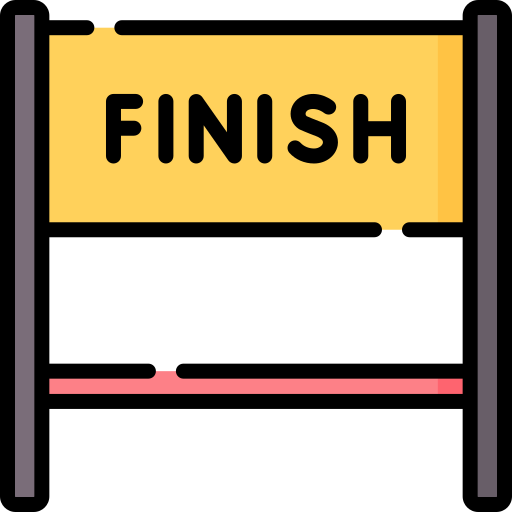
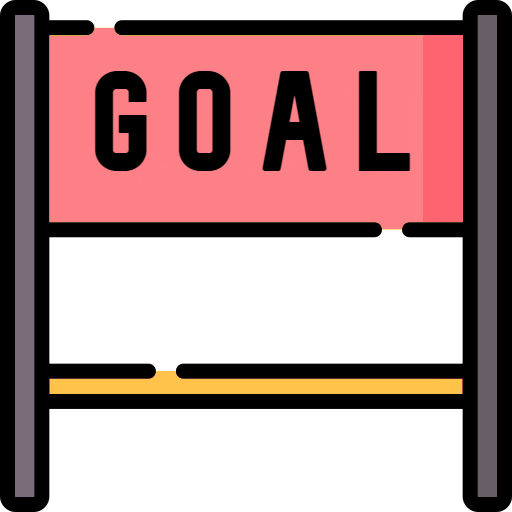
채팅ui 구상중..

diff --git a/src/main/resources/templates/mission/chatRoom.html b/src/main/resources/templates/mission/chatRoom.html
@@ -1,0 +1,224 @@
+<!doctype html>
+<html lang="ko" xmlns:th="http://www.thymeleaf.org">
+<head>
+    <meta charset="utf-8">
+    <meta name="viewport" content="width=device-width, initial-scale=1">
+    <title>미션등록</title>
+        
+    <link rel='stylesheet' href='https://cdn-uicons.flaticon.com/2.1.0/uicons-regular-rounded/css/uicons-regular-rounded.css'>
+    <link rel='stylesheet' href='https://cdn-uicons.flaticon.com/2.1.0/uicons-thin-straight/css/uicons-thin-straight.css'>
+    <link href="https://cdn.jsdelivr.net/npm/bootstrap@5.3.2/dist/css/bootstrap.min.css" rel="stylesheet" integrity="sha384-T3c6CoIi6uLrA9TneNEoa7RxnatzjcDSCmG1MXxSR1GAsXEV/Dwwykc2MPK8M2HN" crossorigin="anonymous">
+    <link rel="stylesheet" href="https://cdn.jsdelivr.net/npm/bootstrap-icons@1.11.1/font/bootstrap-icons.css">
+    <script type="text/javascript" src="//dapi.kakao.com/v2/maps/sdk.js?appkey=7319aff03174c9825e5552818af66d19&libraries=services"></script>
+    <link rel="stylesheet" as="style" crossorigin href="https://cdn.jsdelivr.net/gh/orioncactus/pretendard@v1.3.9/dist/web/static/pretendard.min.css" />
+
+<script>
+
+    var sessionUser = "[[${session.sessionUserInfo.user_id}]]";
+
+    window.addEventListener("DOMContentLoaded", () => {
+
+        var spanElements = document.querySelectorAll("span");
+        spanElements.forEach(function(span) {
+            span.classList.add("align-middle");
+        });
+
+    });
+
+</script>
+
+<style>
+
+    *{font-family: -apple-system, 
+        BlinkMacSystemFont, 
+        "Apple SD Gothic Neo", 
+        "Pretendard Variable", 
+        Pretendard, Roboto, 
+        "Noto Sans KR", 
+        "Segoe UI",
+        "Malgun Gothic", 
+        "Apple Color Emoji", 
+        "Segoe UI Emoji", 
+        "Segoe UI Symbol", 
+        sans-serif;
+        letter-spacing: 0.03em;
+    }
+
+    .form-control:focus {
+      border-color: #ffbf8b; /* 클릭 시 테두리 색상 변경 */
+      box-shadow: 0 0 0 0.1em #ffe2ce; /* 기본 제공되는 박스 쉐도우를 제거합니다. */
+    }
+
+    body { 
+        position: fixed;
+        width: 100%;
+    }
+
+    .word {
+        width: 1rem;
+        font-size: 1rem;
+        font-weight: normal;
+        overflow: hidden;
+        text-overflow: ellipsis;
+        white-space: nowrap;
+    }
+
+    #missionInfo{
+        position: sticky;
+        z-index: 2;
+        top: 3.3em;
+        margin: 0 auto;
+        left: 0;
+        right: 0;
+    }
+
+    #inputChat{
+        position: fixed;
+        z-index: 2;
+        bottom: 3.4em;
+        margin: 0 auto;
+        left: 0;
+        right: 0;
+    }
+
+
+
+</style>
+
+</head>
+
+<body>
+
+    <div class="container-fluid">
+        <div class="row">
+            <div class="col px-0">
+
+                <div class="row py-2 border-bottom border-dark-subtle px-2" style="height: 3.3em;">
+                    <div class="col-2 fw-semibold text-secondary text-start align-self-center" style="font-size:1.1em">
+                        <i class="bi bi-arrow-left ms-2"></i>
+                    </div>
+                    <div class="col fw-semibold text-secondary text-center align-self-center" style="font-size:1.15em; letter-spacing: 0.08em;">
+                        김은비
+                    </div>
+                    <div class="col-2 fw-semibold text-secondary text-end align-self-center" style="font-size:1.1em">
+                        <i class="bi bi-three-dots-vertical me-1"></i>
+                    </div>
+                </div>
+
+                <div id="missionInfo" class="row py-2 border-bottom px-2">
+                    <div class="col">
+                        <div class="row">
+                            <div class="col fw-bold" style="font-size:1.12em">
+                                <span class="">올때 메로나</span>
+                                <span class="px-2 rounded-5 text-center ms-1" style="border: 0.1em solid #FF8827; color:#FF8827; font-size: 0.75em;">
+                                    미션 수락 대기중
+                                </span>
+                            </div>
+                        </div>
+                        <div class="row">
+                            <div class="col word" style="font-size:0.82em; color: #b1b1b1;">저희 집에 메로나를 배달하는것이 최종 목표입니다! 얼마나 험난한 여정이 될지는 모르겠지만ㅋㅋㅋㅋ</div>
+                        </div>
+                        <div class="row" style="margin-top: 0.08em;">
+                            <div class="col justify-content-start">
+                                <span class="fw-semibold" style="color: #818181; font-size: 0.96em;">전체 미션성공시</span>
+                                <span class="totalReward ms-1 fw-semibold" style="color: #a0a0a0; font-size: 0.96em;">17000</span>
+                                <span class="" style="color: #818181; font-size: 0.96em;">원</span>
+                            </div>
+                            <div class="col-5 justify-content-end text-end">
+                                <span class="limitHour fw-semibold" style="color: #FF8827; font-size: 0.96em;">08</span>
+                                <span class="fw-semibold" style="color: #818181; font-size: 0.95em;">시간</span>
+                                <span class="limitMinute fw-semibold" style="color: #FF8827; font-size: 0.96em;">00</span>
+                                <span class="fw-semibold" style="color: #818181; font-size: 0.95em;">분</span>
+                            </div>
+                        </div>
+                    </div>
+                </div>
+
+                <div id="chatHistory" class="row mx-3">
+                    <div id="chatHistoryBox" class="col">
+                        <div class="row mt-3 justify-content-start">
+                            <div class="col-7 rounded-2 lh-sm py-2 shadow-sm" style="border: 0.07em solid #FF8827; font-size: 0.9em; width: auto; max-width: 16.5em; overflow-wrap: break-word;">
+                                sdfdssdfa,skdjfaksldfkjhsdkfjhkdhfkasjdhkfjhaskdjhfkhkadlfasldk
+                            </div>
+                        </div>
+                        <div class="row mt-3 justify-content-end">
+                            <div class="col-7 rounded-2 lh-sm py-2 shadow-sm text-white" style="background-color: #FF8827; font-size: 0.9em; width: auto; max-width: 16.5em; overflow-wrap: break-word;">
+                                sdfdssdfa,skdjfaksldfkjhsdkfjhkdhfkasjdhkfjhaskdjhfkhkadlfasldk
+                            </div>
+                        </div>
+                        <div class="row mt-3 justify-content-start">
+                            <div class="col-7 rounded-2 lh-sm shadow-sm" style="border: 0.07em solid #FF8827; font-size: 0.9em; width: auto; max-width: 16.5em; overflow-wrap: break-word;">
+                                <!-- 정적이미지지도 -->
+                                <div class="row">
+                                    <div class="col px-0">
+                                        <div id="staticMap" class="rounded-bottom-0 rounded-2 border-bottom border-dark-subtle" style="width: 16.3em; height: 8em;">
+                                            <script>
+                                                // 이미지 지도에서 마커가 표시될 위치입니다 
+                                                var markerPosition  = new kakao.maps.LatLng(33.450701, 126.570667); 
+                                                
+                                                // 이미지 지도에 표시할 마커입니다
+                                                // 이미지 지도에 표시할 마커는 Object 형태입니다
+                                                var marker = {
+                                                    position: markerPosition
+                                                };
+                                                
+                                                var staticMapContainer  = document.getElementById('staticMap'), // 이미지 지도를 표시할 div  
+                                                    staticMapOption = { 
+                                                        center: new kakao.maps.LatLng(33.450701, 126.570667), // 이미지 지도의 중심좌표
+                                                        level: 4, // 이미지 지도의 확대 레벨
+                                                        marker: marker // 이미지 지도에 표시할 마커 
+                                                    };
+                                                
+                                                // 이미지 지도를 생성합니다
+                                                var staticMap = new kakao.maps.StaticMap(staticMapContainer, staticMapOption);
+                                            </script>
+                                        </div>
+                                    </div>
+                                </div>
+                                <div class="row py-3">
+                                    <div class="col">
+                                        <div class="row">
+                                            <div class="col" style="word-wrap: break-word;">
+                                                배진우님께서 "올때 메로나" 미션 수락을 신청하셨습니다
+                                                아래 버튼을 클릭하셔서 미션을 수락해주세요!
+                                            </div>
+                                        </div>
+                                        <div class="row mt-2">
+                                            <div class="col d-grid">
+                                                <button id="missionApplyModalBtn" class="btn py-1 px-3 rounded-1 text-white fw-semibold"
+                                                    style="font-size: 1.0em; background-color: #FF8827;">
+                                                    <span class="" style="font-size: 0.85em;">미션수락</span>
+                                                </button>
+                                            </div>
+                                        </div>
+                                    </div>
+                                </div>
+                            </div>
+                        </div>
+                    </div>
+                </div>
+                <div id="inputChat" class="row border-top" style="height: 3.4em;">
+                    <div class="col"></div>
+                </div>
+
+
+
+
+                
+
+            </div>
+        </div>
+        <th:block th:replace="~{commons/missionFragmentPage.html :: footer}"></th:block>
+    </div>
+
+
+
+
+
+    
+
+
+    <script src="https://cdn.jsdelivr.net/npm/bootstrap@5.3.2/dist/js/bootstrap.bundle.min.js" integrity="sha384-C6RzsynM9kWDrMNeT87bh95OGNyZPhcTNXj1NW7RuBCsyN/o0jlpcV8Qyq46cDfL" crossorigin="anonymous"></script>
+</body>
+
+</html>

diff --git a/src/main/resources/templates/mission/map.html b/src/main/resources/templates/mission/map.html
@@ -9,7 +9,7 @@
     <link href="https://cdn.jsdelivr.net/npm/bootstrap@5.3.2/dist/css/bootstrap.min.css" rel="stylesheet" integrity="sha384-T3c6CoIi6uLrA9TneNEoa7RxnatzjcDSCmG1MXxSR1GAsXEV/Dwwykc2MPK8M2HN" crossorigin="anonymous">
     <link rel="stylesheet" href="https://cdn.jsdelivr.net/npm/bootstrap-icons@1.11.1/font/bootstrap-icons.css">
     <script type="text/javascript" src="//dapi.kakao.com/v2/maps/sdk.js?appkey=7319aff03174c9825e5552818af66d19&libraries=services"></script>
-    <link rel="stylesheet" as="style" crossorigin href="https://cdn.jsdelivr.net/gh/orioncactus/pretendard@v1.3.9/dist/web/static/pretendard.min.css" />
+    <link rel="stylesheet" as="style" crossorigin href="https://cdn.jsdelivr.net/gh/orioncactus/pretendard@v1.3.9/dist/web/static/pretendard.min.css"/>
 
 
 <script>
@@ -25,7 +25,7 @@
     imageSize = new kakao.maps.Size(36, 36), // 마커이미지의 크기입니다
     imageOption = {offset: new kakao.maps.Point(24, 30)};
 
-    var goalImg = relativePath + "/public/image/mission/free-icon-finish-line-1894481.png", // 마커이미지의 주소입니다    
+    var goalImg = relativePath + "/public/image/mission/free-icon-goal-5230487.png", // 마커이미지의 주소입니다    
     goalImgSize = new kakao.maps.Size(36, 36), // 마커이미지의 크기입니다
     goalImgOption = {offset: new kakao.maps.Point(24, 30)};
 
@@ -680,7 +680,7 @@
                         <div id="missionDetailBox" class="shut row border-top d-none">
                             <div class="col px-0">
                                 <div class="overflow-y-scroll overflow-x-hidden" style="height: 15em;"> 
-                                    <div class="row" style="padding-top: 0.55em; padding-bottom: 0.1em;">
+                                    <div class="row" style="padding-top: 0.6em; padding-bottom: 0.1em;">
                                         <div class="col">
                                             <div class="row mx-2">
                                                 <div class="col d-flex align-self-center ps-1">
@@ -695,7 +695,7 @@
                                     <div class="row mx-2" style="margin-top: 0.07em;">
                                         <div class="col text-start d-flex align-self-center justify-content-start" style="overflow: hidden;">
                                             <img class="userProfileImg img-fluid rounded-circle me-2  d-flex align-self-center" 
-                                                style="height: 1.13em; width: 1.13em; object-fit: cover; border-radius: 50%; letter-spacing: 0.06em;">
+                                                style="height: 1.13em; width: 1.13em; object-fit: cover; border-radius: 50%;">
                                             <span class="userName d-flex align-self-center"
                                                 style="color: #818181; font-weight: 500; font-size: 0.90em;"></span>
                                         </div>
@@ -729,7 +729,7 @@
                                 </div>
                                 <div class="row bg-white border-top px-2" id="detailBottomBtn" style="padding-top: 0.3em; padding-bottom: 0.33em; height: 3.6em;">
                                     <div class="col">
-                                        <div class="row align-items-center" style="margin-top: -0.1em;">
+                                        <div class="row align-items-center" style="margin-bottom: -0.15em;">
                                             <div class="col align-items-center">
                                                 <span class="align-self-center fw-semibold" style="color: #8b8b8b; font-size: 0.83em;">전체 미션성공시</span>
                                                 <span class="totalReward ms-1 align-self-center fw-semibold" style="color: #b1b1b1; font-size: 0.83em;"></span>

diff --git a/src/main/resources/templates/mission/chatList.html b/src/main/resources/templates/mission/chatList.html
@@ -98,8 +98,8 @@
                                     </div>
                                 </div>
                                 <div class="col-2 d-flex justify-content-end">
-                                    <i class="bi bi-person d-flex align-self-center me-1 fs-4 text-body-tertiary"></i>
-                                    <span class="d-flex align-self-center fw-semibold text-secondary" style="font-size: 0.95em">2</span>
+                                    <i class="bi bi-person align-middle me-1 fs-4 text-body-tertiary"></i>
+                                    <span class="align-middle fw-semibold text-secondary" style="font-size: 0.95em">2</span>
                                 </div>
                             </div>
 

diff --git a/src/main/java/com/cu/ufuf/mission/controller/MissionChatController.java b/src/main/java/com/cu/ufuf/mission/controller/MissionChatController.java
@@ -14,4 +14,10 @@ public class MissionChatController {
         return "mission/chatList";
     }
 
+    @RequestMapping("chatRoom")
+    public String chatRoom(HttpSession session){
+        return "mission/chatRoom";
+    }
+
+
 }

diff --git a/src/main/java/com/cu/ufuf/mission/mapper/MissionChatSqlMapper.java b/src/main/java/com/cu/ufuf/mission/mapper/MissionChatSqlMapper.java
@@ -16,4 +16,4 @@ public interface MissionChatSqlMapper {
 
 
 
-}
+} 
